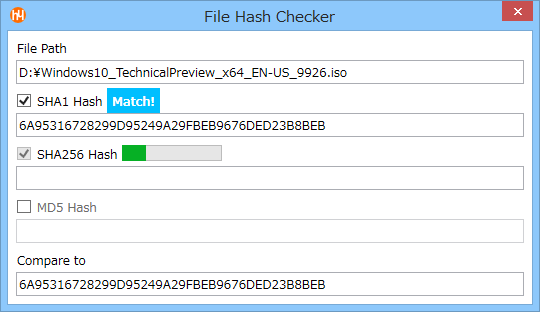
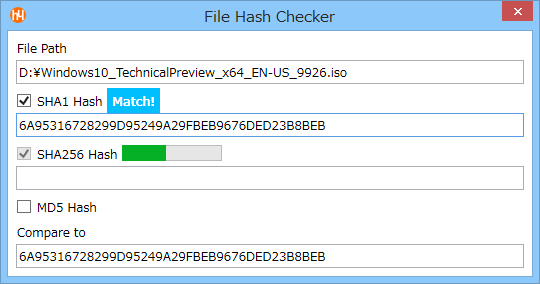
Changed window appearance

Changed region(s): [[0.0296, 0.1408, 0.9778, 0.9859], [0.0, 0.0282, 1.0, 0.1127]]

diff --git a/FileHashChecker/MainWindow.xaml b/FileHashChecker/MainWindow.xaml
@@ -36,7 +36,6 @@
 					  IsEnabled="{Binding Sha1IsReading, Converter={StaticResource BooleanInverseConverterKey}}"
 					  IsChecked="{Binding Sha1IsEnabled}"/>
 			<Label VerticalAlignment="Center"
-				   IsEnabled="{Binding Sha1IsEnabled}"
 				   Content="SHA1 Hash"/>
 			<ProgressBar Width="100" Height="16" VerticalAlignment="Center"
 						 Visibility="{Binding Sha1IsReading, Converter={StaticResource BooleanToVisibilityConverterKey}}"
@@ -51,7 +50,7 @@
 		</StackPanel>
 		<TextBox Height="24" Margin="4,0,4,4" HorizontalAlignment="Stretch"
 				 IsReadOnly="True" VerticalContentAlignment="Center"
-				 IsEnabled="{Binding Sha1IsEnabled}"
+				 Visibility="{Binding Sha1IsEnabled, Converter={StaticResource BooleanToVisibilityConverterKey}}"
 				 Text="{Binding Sha1Hash, Mode=OneWay}"/>
 
 		<!-- SHA256 Hash -->
@@ -61,7 +60,6 @@
 					  IsEnabled="{Binding Sha256IsReading, Converter={StaticResource BooleanInverseConverterKey}}"
 					  IsChecked="{Binding Sha256IsEnabled}"/>
 			<Label VerticalAlignment="Center"
-				   IsEnabled="{Binding Sha256IsEnabled}"
 				   Content="SHA256 Hash"/>
 			<ProgressBar Width="100" Height="16" VerticalAlignment="Center"
 						 Visibility="{Binding Sha256IsReading, Converter={StaticResource BooleanToVisibilityConverterKey}}"
@@ -76,7 +74,7 @@
 		</StackPanel>
 		<TextBox Height="24" Margin="4,0,4,4" HorizontalAlignment="Stretch"
 				 IsReadOnly="True" VerticalContentAlignment="Center"
-				 IsEnabled="{Binding Sha256IsEnabled}"
+				 Visibility="{Binding Sha256IsEnabled, Converter={StaticResource BooleanToVisibilityConverterKey}}"
 				 Text="{Binding Sha256Hash, Mode=OneWay}"/>
 
 		<!-- MD5 Hash -->
@@ -86,7 +84,6 @@
 					  IsEnabled="{Binding Md5IsReading, Converter={StaticResource BooleanInverseConverterKey}}"
 					  IsChecked="{Binding Md5IsEnabled}"/>
 			<Label VerticalAlignment="Center"
-				   IsEnabled="{Binding Md5IsEnabled}"
 				   Content="MD5 Hash"/>
 			<ProgressBar Width="100" Height="16" VerticalAlignment="Center"
 						 Visibility="{Binding Md5IsReading, Converter={StaticResource BooleanToVisibilityConverterKey}}"
@@ -101,7 +98,7 @@
 		</StackPanel>
 		<TextBox Height="24" Margin="4,0,4,4" HorizontalAlignment="Stretch"
 				 IsReadOnly="True" VerticalContentAlignment="Center"
-				 IsEnabled="{Binding Md5IsEnabled}"
+				 Visibility="{Binding Md5IsEnabled, Converter={StaticResource BooleanToVisibilityConverterKey}}"
 				 Text="{Binding Md5Hash, Mode=OneWay}"/>
 
 		<!-- Compare to -->

diff --git a/FileHashChecker/Properties/AssemblyInfo.cs b/FileHashChecker/Properties/AssemblyInfo.cs
@@ -51,5 +51,5 @@ using System.Windows;
 // すべての値を指定するか、下のように '*' を使ってビルドおよびリビジョン番号を 
 // 既定値にすることができます:
 // [assembly: AssemblyVersion("1.0.*")]
-[assembly: AssemblyVersion("1.1.0.0")]
-[assembly: AssemblyFileVersion("1.1.0.0")]
+[assembly: AssemblyVersion("1.1.1.0")]
+[assembly: AssemblyFileVersion("1.1.1.0")]
